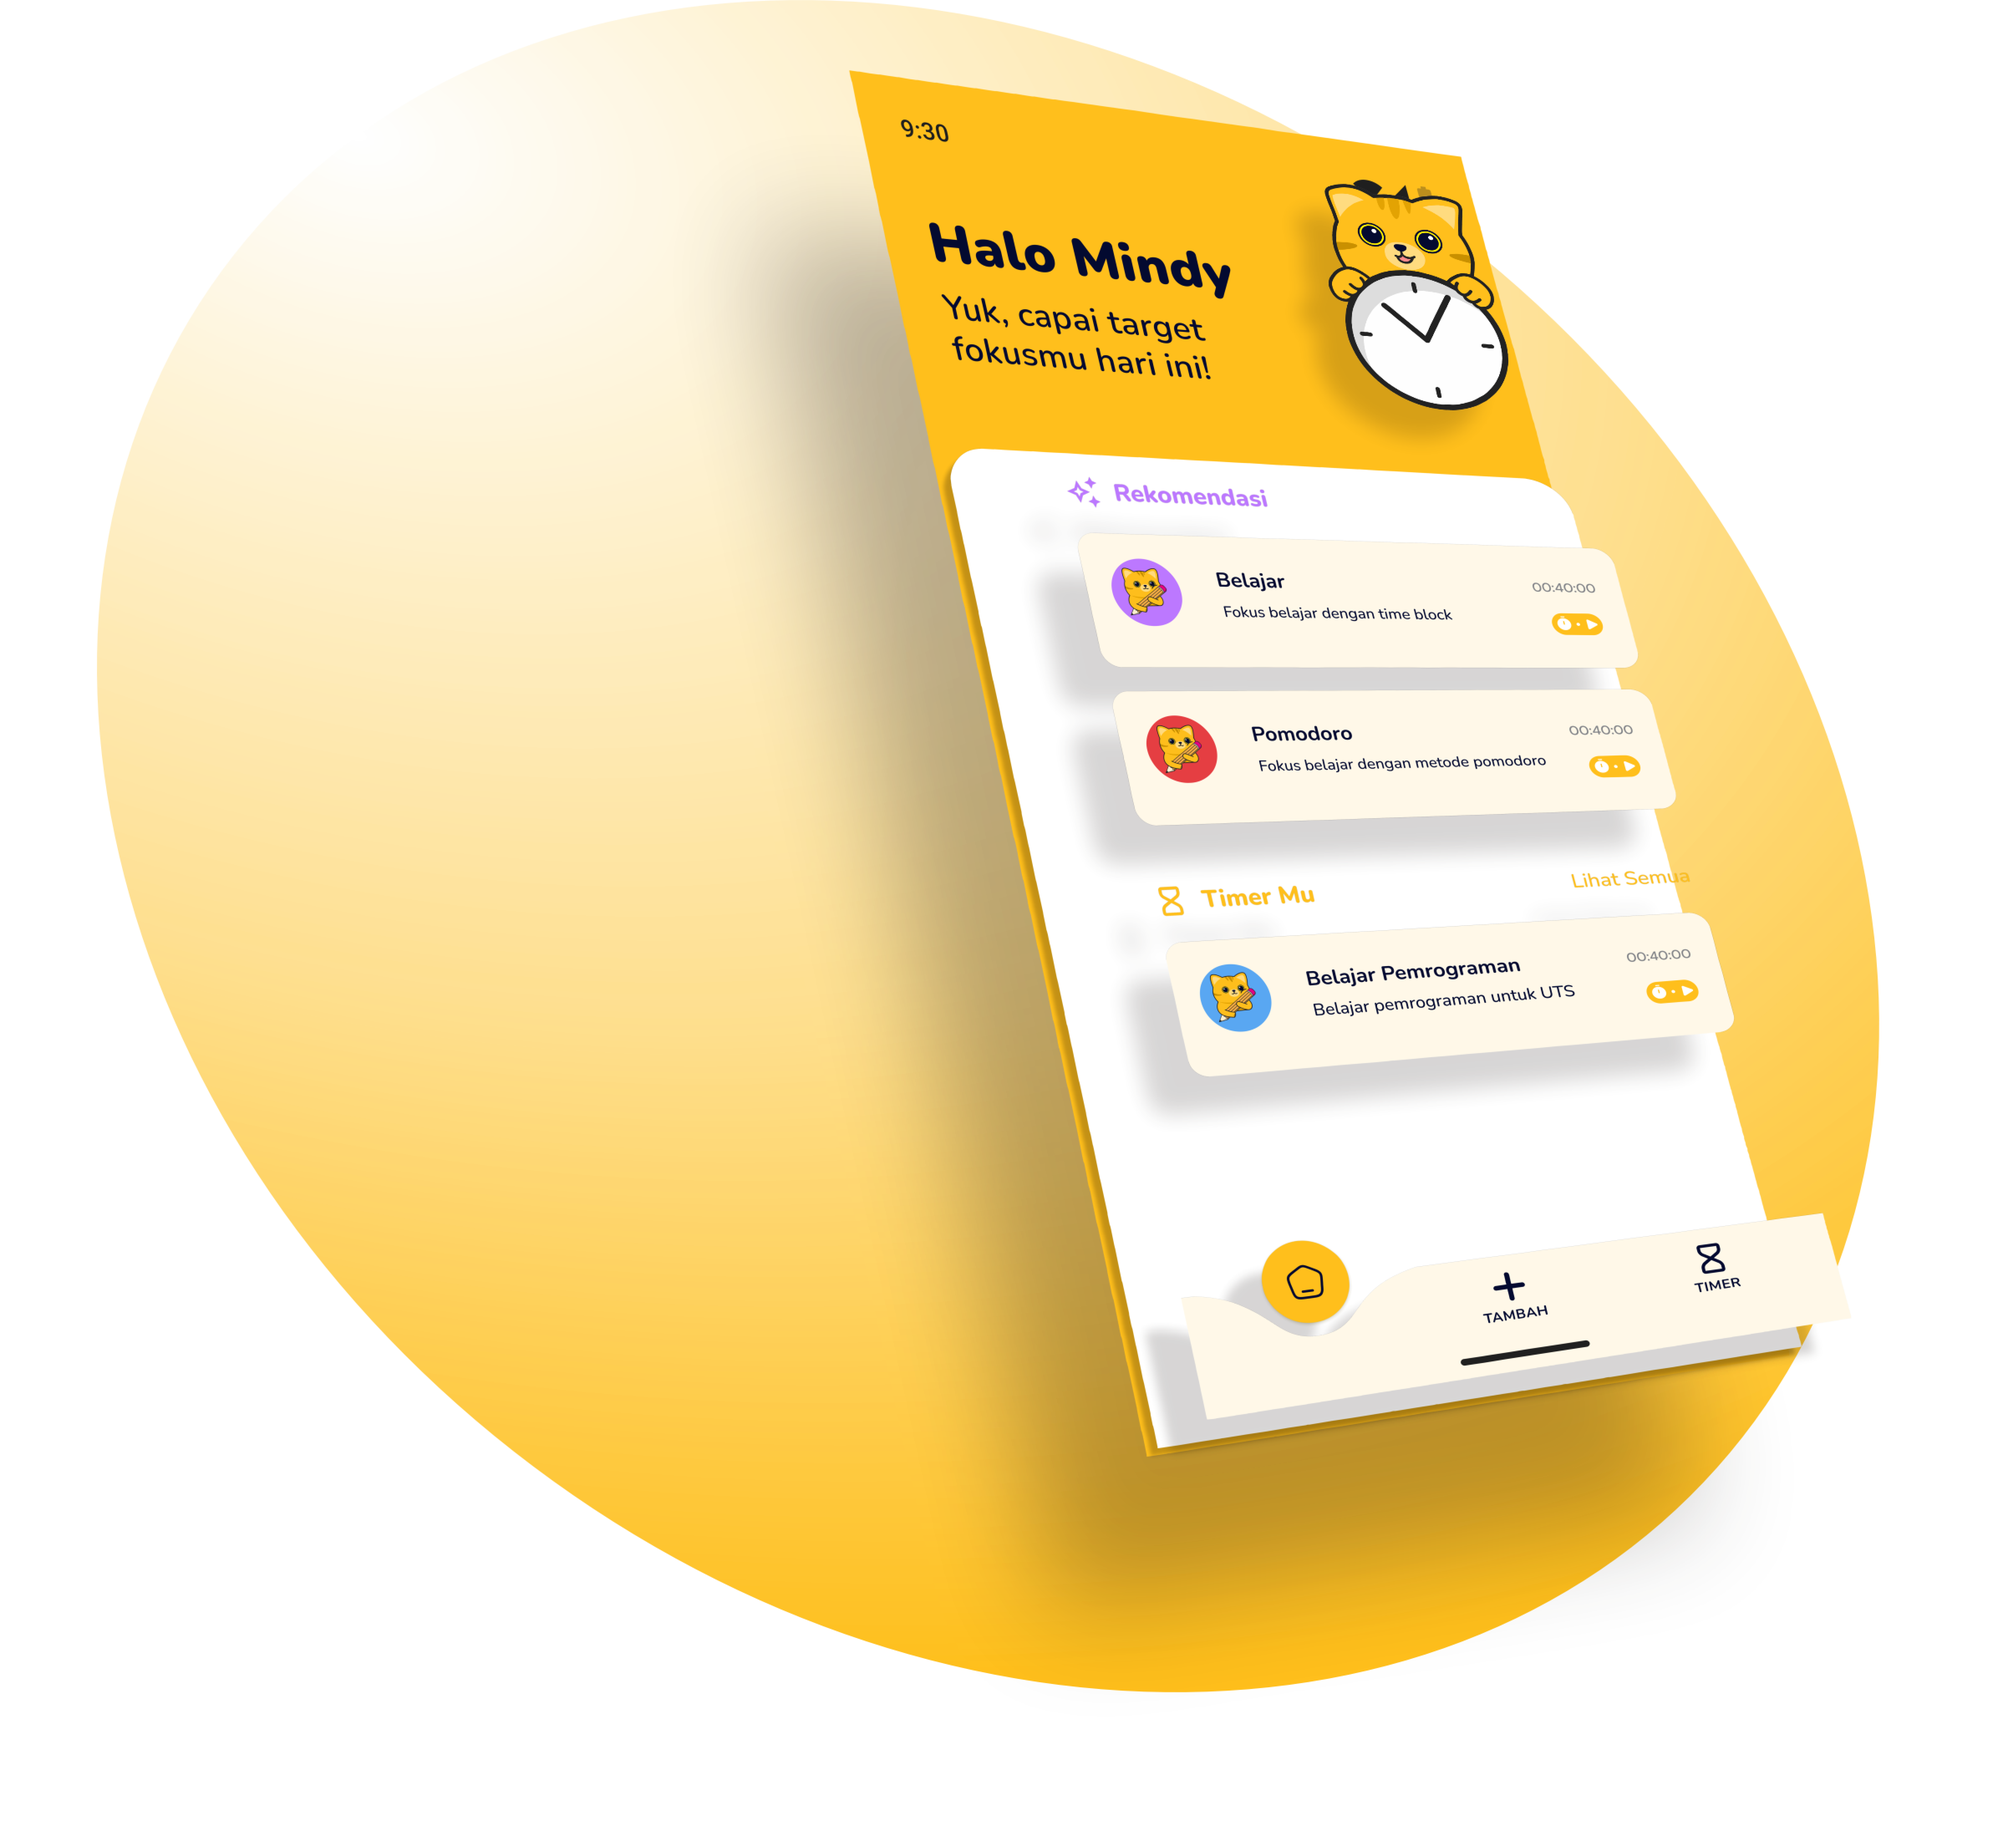
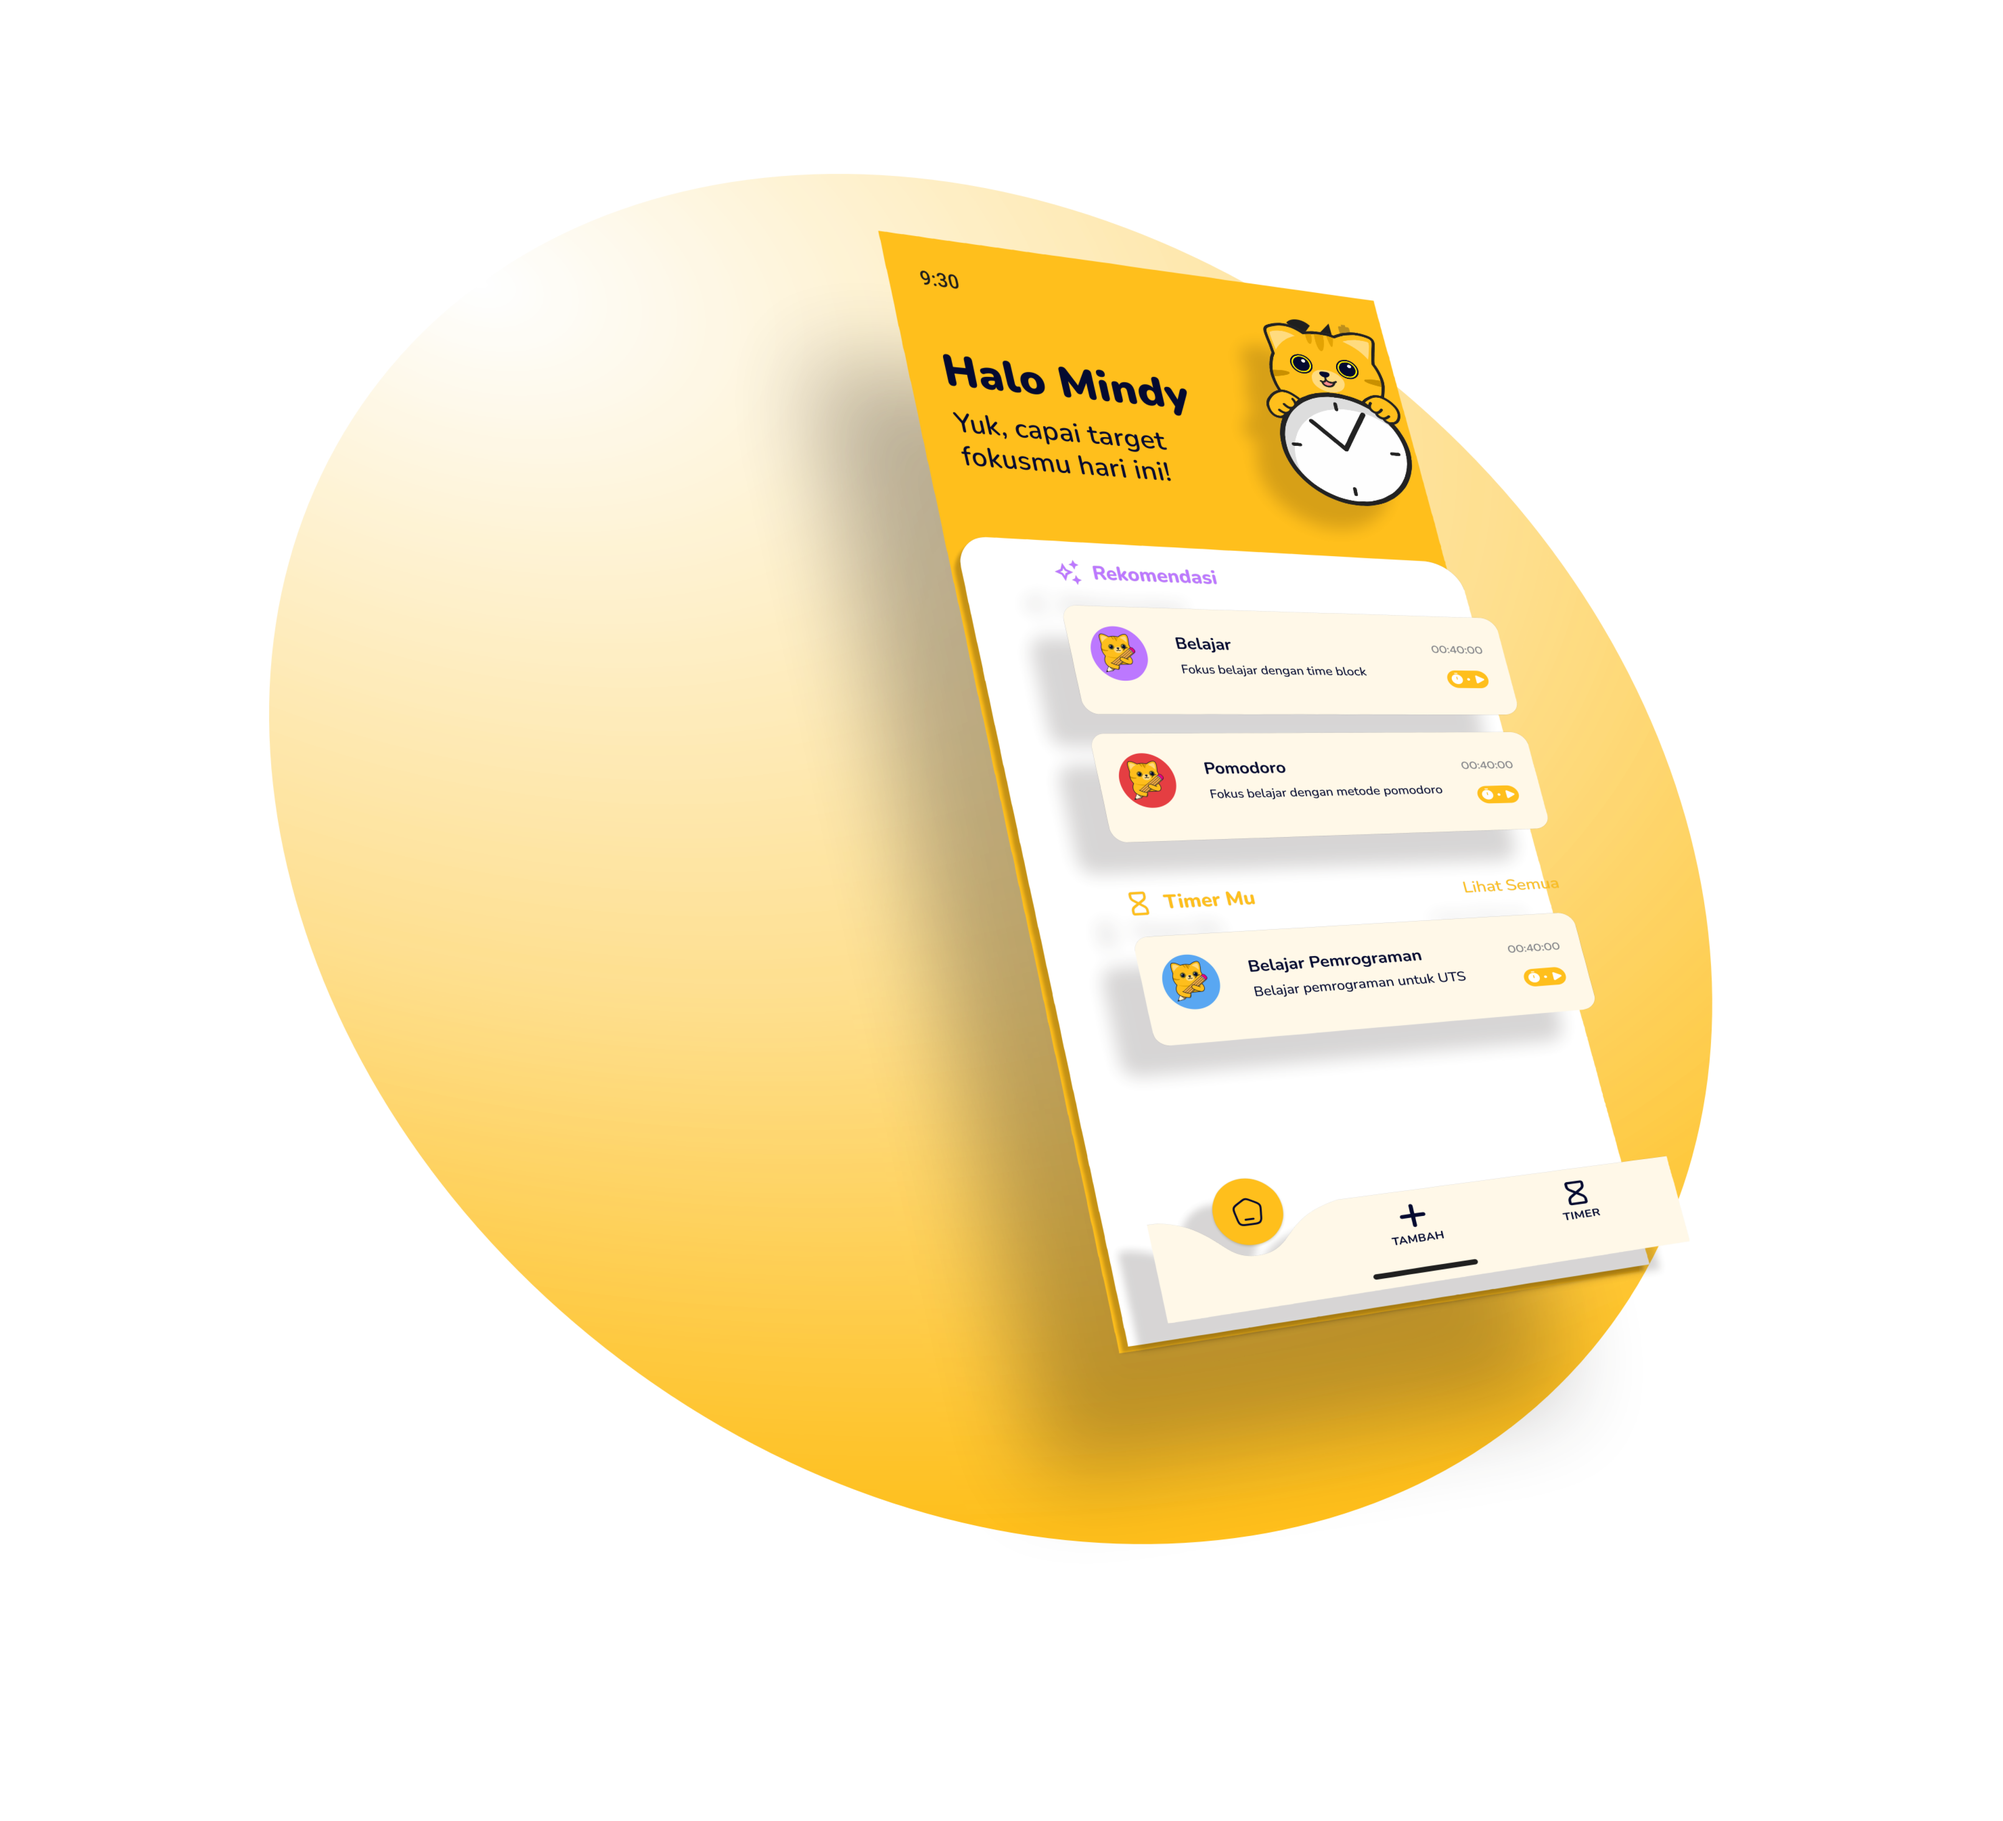
Update

diff --git a/pages/index.vue b/pages/index.vue
@@ -73,7 +73,7 @@
     </section>
 
     <!-- About Time Minder -->
-    <section class="relative pb-32 flex flex-col justify-center items-center">
+    <section class="relative pb-24 flex flex-col justify-center items-center">
       <div class="bg-white absolute h-[70%] w-full bottom-0"></div>
       <section
         id="about"
@@ -94,11 +94,11 @@
 
     <section class="bg-white">
       <!-- Intoduction section -->
-      <section class="w-full">
-        <BaseSection data-aos="fade-down" >
-          <div class=" col-span-12 lg:col-span-7">
-            <div class="w-full">
-              <img :src="require('assets/img/hero.png')" class="w-50" alt="" />
+      <section class="w-full" data-aos="fade-down">
+        <div class="relative max-w-screen-xl justify-center items-center px-8 mx-auto grid grid-cols-12 gap-x-6">
+          <div data-aos="fade-right" class="col-span-12 lg:col-span-6">
+            <div class="flex justify-center items-center">
+              <img :src="require('assets/img/hero.png')" class="w-70 sm:w-65" alt="" />
             </div>
           </div>
           <div class="col-span-12 lg:col-span-5 space-y-6 px-4 sm:px-6 mt-20">
@@ -113,10 +113,10 @@
               <LandingListItem title="Work-Break Ratio" />
             </ul>
           </div>
-        </BaseSection>
+        </div>
       </section>
 
-      <!-- Introduction section -->
+      <!-- Features section -->
       <section
         id="features"
         class="bg-features relative max-w-full sm:mx-4 my-20 py-16 shadow rounded-2xl overflow-hidden"
@@ -127,24 +127,20 @@
             <h2 class="text-4xl font-semibold">Our <span class="text-time-gradient">Features</span></h2>
             <div class="space-y-2">
               <h4 class="text-lg font-medium">Add Your Own Custom Timer</h4>
-              <p class="paragraph text-sm xl:text-base">
-                Kustomisasi waktu belajar dan istirahat secara fleksibel sesuai dengan preferensi masing-masing. Kamu
-                dapat menyesuaikan durasi fokus dan istirahat, serta menetapkan interval antara sesi fokus dan
-                istirahat sesuai dengan kebutuhanmu.
+              <p class="paragraph text-justify text-sm xl:text-base">
+                Kustomisasi waktu belajar dan istirahat sesuai preferensimu. Atur durasi fokus dan istirahat serta interval sesuai kebutuhanmu.
               </p>
             </div>
             <div class="space-y-2">
               <h4 class="text-lg font-medium">Focus Timer</h4>
-              <p class="paragraph text-sm xl:text-base">
-                Fitur-fitur utama kami dirancang untuk memberikan pengalaman pengguna yang lebih baik dalam mengelola
-                waktu dan meningkatkan produktivitas.
+              <p class="paragraph text-justify text-sm xl:text-base">
+                Fitur-fitur utama kami dirancang untuk meningkatkan produktivitas dan pengelolaan waktu pengguna menjadi lebih baik.
               </p>
             </div>
             <div class="space-y-2">
               <h4 class="text-lg font-medium">List View Timer</h4>
-              <p class="paragraph text-sm xl:text-base">
-                Dengan tampilan list yang terstruktur, kamu dapat dengan mudah mengawasi waktu yang kamu habiskan pada
-                setiap tugas dan mengelola jadwalmu dengan lebih efisien.
+              <p class="paragraph text-justify text-sm xl:text-base">
+                Dengan tampilan list terstruktur, kamu dapat mengelola waktu untuk setiap tugas dan jadwalmu lebih efisien.
               </p>
             </div>
           </div>
@@ -160,25 +156,22 @@
               <img :src="require('~/assets/img/timer.png')" class="w-70" alt="" />
             </div>
           </div>
-          <div data-aos="fade-left" class="col-span-10 lg:col-span-5 space-y-8 sm:space-y-6 mt-8 xl:px-8">
+          <div data-aos="fade-left" class="col-span-12 lg:col-span-5 space-y-8 sm:space-y-6 mt-4 xl:px-8">
             <h2 class="text-4xl font-semibold">Our Timer</h2>
             <ul class="space-y-8 sm:space-y-4">
-              <LandingListItem title="Timer yang Dapat Disesuaikan">
-                <p class="text-sm text-gray-700 leading-relaxed">
-                  Atur timer pribadi untuk sesi kerja dan istirahat, memungkinkan untuk menyesuaikan jadwalmu sesuai
-                  dengan preferensi dan alur kerja kamu yang unik.
+              <LandingListItem title="Customizable Timer">
+                <p class="text-justify text-sm text-gray-700 leading-relaxed">
+                  Atur timer pribadi untuk sesi kerja dan istirahat, sesuai dengan preferensi dan alur kerja unikmu.
                 </p>
               </LandingListItem>
               <LandingListItem title="Fokus dan Produktivitas">
-                <p class="text-sm text-gray-700 leading-relaxed">
-                  Tetap fokus dan produktif sepanjang hari dengan antarmuka intuitif Time Minder dan fitur-fitur canggih
-                  yang dirancang untuk meningkatkan produktivitasmu.
+                <p class="text-justify text-sm text-gray-700 leading-relaxed">
+                  Tetap fokus dan produktif sepanjang hari dengan antarmuka intuitif Time Minder dan fitur-fitur canggih yang meningkatkan produktivitas.
                 </p>
               </LandingListItem>
-              <LandingListItem title="Kompatibilitas Antar-Platform">
-                <p class="text-sm text-gray-700 leading-relaxed">
-                  Akses Time Minder dengan lancar di berbagai perangkat dan platform, memastikanmu tetap terorganisir
-                  dan berada dalam jalur yang benar di mana pun kamu berada.
+              <LandingListItem title="Cross-Platform Compatibility">
+                <p class="text-justify text-sm text-gray-700 leading-relaxed">
+                  Akses Time Minder dengan mudah di semua perangkat untuk tetap terorganisir di mana pun kamu berada.
                 </p>
               </LandingListItem>
             </ul>
@@ -213,21 +206,23 @@
       </section>
 
       <!-- FAQ section -->
-      <section id="faq" class="w-full">
-        <BaseSection>
-          <div data-aos="fade-right" data-aos-delay="150" class="col-span-12 lg:col-span-6">
-            <div class="w-full">
-              <img :src="require('~/assets/img/cat_hello.svg')" class="w-70" alt="" />
+      <section id="faq" class="w-full" data-aos="fade-down">
+        <div class="relative max-w-screen-xl justify-center items-center px-8 mx-auto grid grid-cols-12 gap-x-6">
+          <div data-aos="fade-right" class="col-span-12 lg:col-span-6">
+            <div data-aos="fade-right" data-aos-delay="150" class="flex justify-center items-center">
+              <div class="flex justify-center items-center">
+                <img :src="require('~/assets/img/cat_hello.png')" class="w-70 sm:w-60" alt="" />
+              </div>
             </div>
           </div>
-          <div data-aos="fade-left" data-aos-delay="150" class="col-span-12 lg:col-span-6 px-4 sm:px-6 mt-8">
+          <div data-aos="fade-left" data-aos-delay="150" class="col-span-12 lg:col-span-5 space-y-6 px-4 sm:px-6 mt-8">
             <span class="text-base text-gradient font-semibold uppercase mb-4 sm:mb-2">Support</span>
             <h2 class="text-3xl sm:text-4xl font-semibold mb-10 sm:mb-6">Frequently asked questions</h2>
             <ul class="shadow-box">
               <BaseAccordion v-for="(accordion, index) in accordions" :key="index" :accordion="accordion" />
             </ul>
           </div>
-        </BaseSection>
+        </div>
       </section>
 
       <div class="w-full py-10 flex justify-center">

diff --git a/components/base/Footer.vue b/components/base/Footer.vue
@@ -6,9 +6,9 @@
           class="md:w-full lg:w-full w-full sm:w-1/2 xl:w-fit flex flex-col sm:flex-row sm:px-6 py-6 sm:py-12 sm:space-x-10 sm:border-r-0 border-[#DDDDDD]"
         >
           <div class="sm:hidden xl:block mb-6 sm:mb-0">
-            <a href="#">
+            <NuxtLink to="/">
               <img :src="require('~/assets/img/logo/TimeMinder.svg')" class="w-48 -mt-2" alt="Time Minder Logo" />
-            </a>
+            </NuxtLink>
           </div>
           <ul class="space-y-4">
             <NavLink name="Products" url="#" />
@@ -39,7 +39,7 @@
         >
           <h5 class="text-sm font-medium text-[#666666] focus:outline-none focus:shadow-outline">Newsletter</h5>
           <p class="text-sm text-[#666666] focus:outline-none focus:shadow-outline">
-            Dapatkan update terbaru dan promosi menarik langsung di inbox Anda.
+            Dapatkan update terbaru dan promosi menarik langsung di inbox kamu.
           </p>
           <div class="flex items-center space-x-2">
             <input

diff --git a/components/base/NavbarTimer.vue b/components/base/NavbarTimer.vue
@@ -17,8 +17,8 @@
           :class="[open ? 'flex' : 'hidden lg:flex']"
           class="w-full h-auto flex flex-col flex-grow lg:items-center pb-4 lg:pb-0 lg:justify-end lg:flex-row origin-top duration-300 xl:space-x-2 space-y-3 lg:space-y-0"
         >
+          <NuxtLink to="/">Home</NuxtLink>
           <NavLink name="Download" url="#" />
-          <NavLink name="More Info" url="#footer" />
         </ul>
       </div>
     </div>
@@ -26,8 +26,12 @@
 </template>
 
 <script>
+import NavLink from "@/components/NavLink.vue";
 export default {
   name: 'BaseNavbarTimer',
+  components: {
+    NavLink
+  },
   data() {
     return {
       open: false,

diff --git a/components/timer/ProgressBar.vue b/components/timer/ProgressBar.vue
@@ -1,7 +1,7 @@
 <template>
   <div class="justify-center max-w-xl">
     <div class="relative h-2 bg-neutral-200 rounded-full">
-      <div class="absolute top-0 left-0 h-2 rounded-full gradient-bg" :style="{ width: (100 - percentages) + '%' }"></div>
+      <div class="absolute top-0 left-0 h-2 rounded-full" :class="{ 'gradient-bg': percentages > 0, 'bg-gray-300': percentages === 0 }" :style="{ width: (100 - percentages) + '%' }"></div>
     </div>
   </div>
 </template>

diff --git a/layouts/custom.vue b/layouts/custom.vue
@@ -1,8 +1,8 @@
 <template>
   <div class="min-h-screen font-sans antialiased relative">
     <div class="relative">
-      <div class="w-full cover-gradient-2 sm:cover-gradient">
-        <BaseNavbarTimer/>
+      <div class="absolute w-full cover-gradient-2 sm:cover-gradient">
+        <BaseNavbarTimer class="sticky top-0 z-10" />
         <main class="text-neutral-800 bg-white">
           <Nuxt/>
         </main>

diff --git a/components/landing/HomepageImage.vue b/components/landing/HomepageImage.vue
@@ -1,7 +1,7 @@
 <template>
   <div class="col-span-12 lg:col-span-6" v-bind="$attrs">
     <div class="w-full">
-      <img :src="require('~/assets/img/homepage.png')" class="w-70" alt="" />
+      <img :src="require('~/assets/img/homepage.png')" class="w-50" alt="" />
     </div>
   </div>
 </template>
